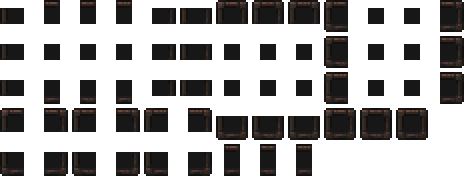
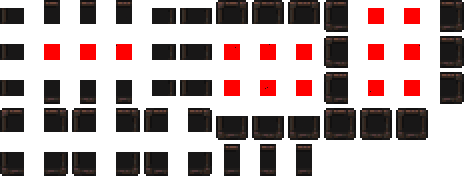
Best vitric wall optimization I could get

diff --git a/Content/Tiles/Vitric/Temple/VitricTempleWall.cs b/Content/Tiles/Vitric/Temple/VitricTempleWall.cs
@@ -7,7 +7,7 @@ namespace StarlightRiver.Content.Tiles.Vitric.Temple
 {
 	class VitricTempleWall : ModWall
 	{
-		public override string Texture => AssetDirectory.VitricTile + "VitricTempleWallEdge";
+		public override string Texture => AssetDirectory.VitricTile + "VitricTempleWall";
 
 		public override void SetStaticDefaults()
 		{
@@ -20,23 +20,22 @@ namespace StarlightRiver.Content.Tiles.Vitric.Temple
 			return false;
 		}
 
-		public override void PostDraw(int i, int j, SpriteBatch spriteBatch)
+		public override bool PreDraw(int i, int j, SpriteBatch spriteBatch)
 		{
-			Texture2D tex = Request<Texture2D>(AssetDirectory.VitricTile + "VitricTempleWall").Value;
-			var target = new Vector2(i * 16 - Main.screenPosition.X, j * 16 - Main.screenPosition.Y);
-			target += new Vector2(Helpers.Helper.TileAdj.X * 16, Helpers.Helper.TileAdj.Y * 16);
-			var source = new Rectangle(i % 14 * 16, j % 25 * 16, 16, 16);
+			var tile = Main.tile[i, j];
 
-			Tile tile = Framing.GetTileSafely(i, j);
+			var frame = new Rectangle(i % 14 * 16, j % 25 * 16, 16, 16);
+			var frame2 = new Rectangle(tile.WallFrameX, tile.WallFrameY, 32, 32);
 
-			if (Lighting.NotRetro)
-			{
-				Lighting.GetCornerColors(i, j, out VertexColors vertices);
-				Main.tileBatch.Draw(tex, target, source, vertices, Vector2.Zero, 1f, SpriteEffects.None);
-			}
+			VertexColors vertices;
+			Lighting.GetCornerColors(i, j, out vertices);
 
-			if (TileID.Sets.DrawsWalls[tile.TileType])
-				spriteBatch.Draw(tex, target, source, Lighting.GetColor(i, j));
+			if (!(frame2.Intersects(new Rectangle(36, 36, 36 * 3, 36)) || frame2.Intersects(new Rectangle(36 * 6, 36, 36 * 3, 36 * 2)) || frame2.Intersects(new Rectangle(36 * 10, 0, 36 * 2, 36 * 3))))
+				Main.tileBatch.Draw(Request<Texture2D>(Texture + "Edge").Value, new Vector2(i * 16 - (int)Main.screenPosition.X + Main.offScreenRange - 8, j * 16 - (int)Main.screenPosition.Y + Main.offScreenRange - 8), frame2, vertices, Vector2.Zero, 1f, SpriteEffects.None);
+			
+			Main.tileBatch.Draw(Request<Texture2D>(Texture).Value, new Vector2(i * 16 - (int)Main.screenPosition.X + Main.offScreenRange, j * 16 - (int)Main.screenPosition.Y + Main.offScreenRange), frame, vertices, Vector2.Zero, 1f, SpriteEffects.None);
+
+			return false;
 		}
 	}
 

diff --git a/Core/ParticleSystem.cs b/Core/ParticleSystem.cs
@@ -82,8 +82,8 @@ namespace StarlightRiver.Core
 				indicies[6 * k + 5] = (short)(4 * k + 2);
 			}
 
-			vertexBuffer.SetData(verticies);
-			indexBuffer.SetData(indicies);
+			vertexBuffer?.SetData(verticies);
+			indexBuffer?.SetData(indicies);
 		}
 
 		public void DrawParticles(SpriteBatch spriteBatch)
